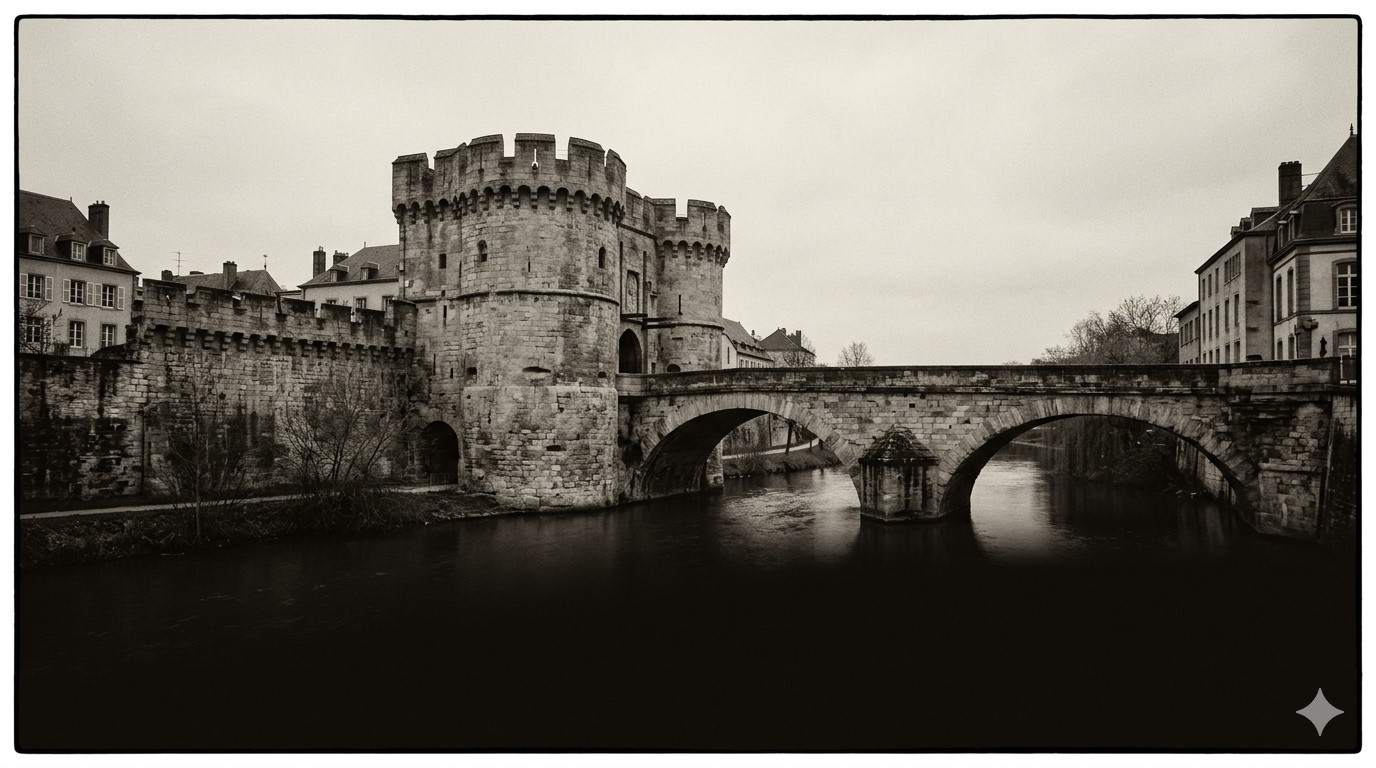
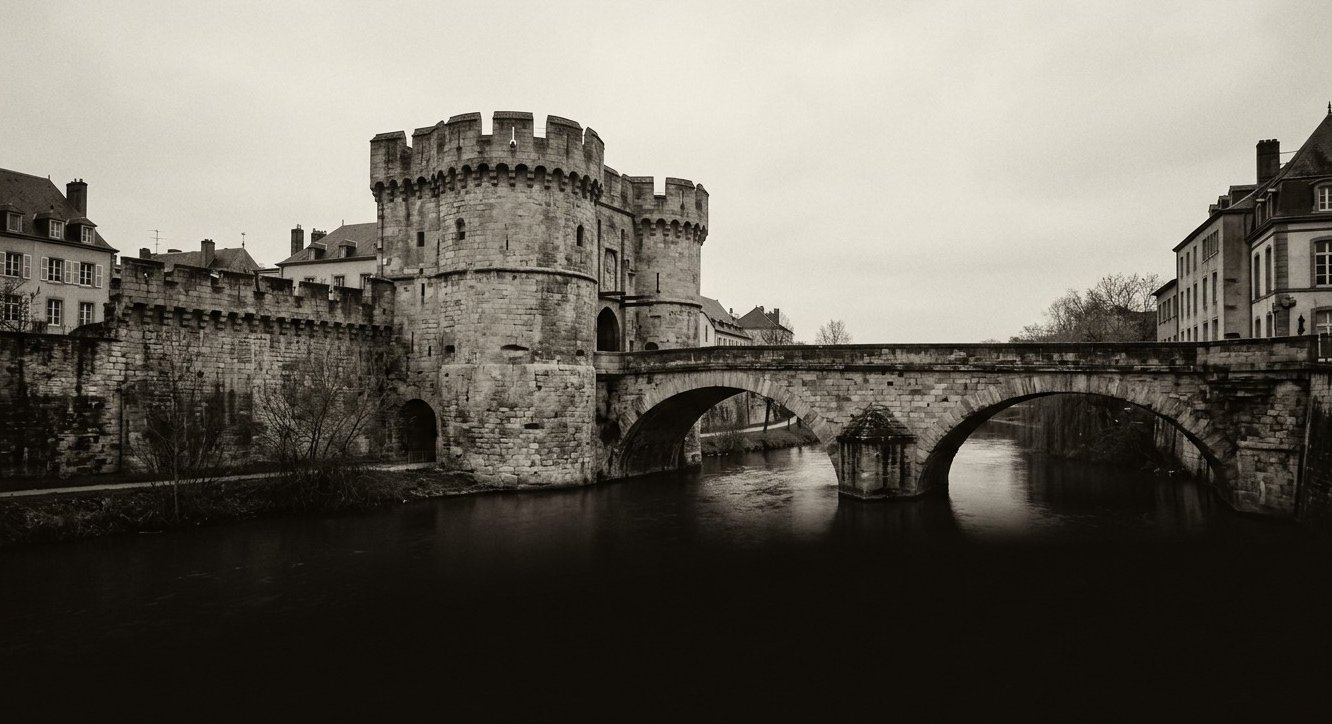
feat(front): branche la photo héro (Porte des Allemands)
- Nettoyage de l'asset uploadé : suppression du watermark ✦ (clonage) et de
  la bordure décorative (recadrage), réenregistré optimisé (1332×724, ~139 Ko).
- HERO_IMAGE = "/hero-metz.jpg", alt descriptif. HERO_CREDIT laissé vide
  (image générée par le fondateur, pas d'attribution tierce requise).

Build Next OK. Rendu N&B chaud + grain + scrim appliqués en CSS.

Changed region(s): [[0.0, 0.0, 1.0, 1.0]]

diff --git a/frontend/app/page.tsx b/frontend/app/page.tsx
@@ -87,8 +87,8 @@ function Header() {
 // droits choisie (cf. docs/brand/LOCAL-ANCHORING.md, brief photo). La poser
 // dans frontend/public/ puis renseigner ici (ex. "/hero-metz.jpg") suffit :
 // le traitement N&B/grain/scrim est appliqué en CSS, une couleur fait l'affaire.
-const HERO_IMAGE: string | null = null;
-const HERO_ALT = "Façade en pierre de Metz";
+const HERO_IMAGE: string | null = "/hero-metz.jpg";
+const HERO_ALT = "La Porte des Allemands et le pont sur la Seille, à Metz";
 // Crédit photo affiché en bas du hero. OBLIGATOIRE si l'image est sous licence
 // à attribution (CC-BY / CC-BY-SA). Ex. "Photo : Markus Bernet · CC BY-SA 4.0 · Wikimedia Commons".
 const HERO_CREDIT: string | null = null;